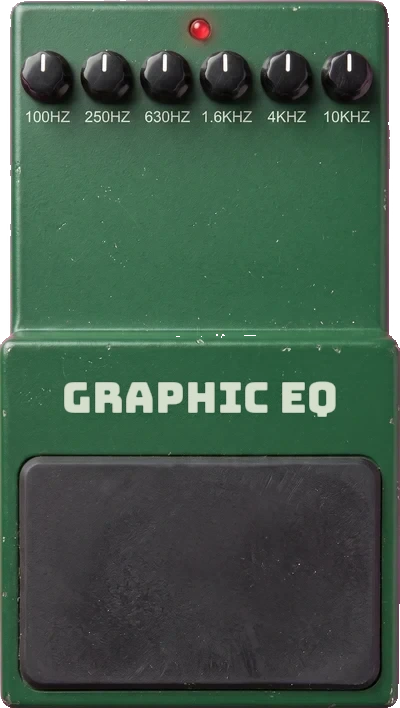
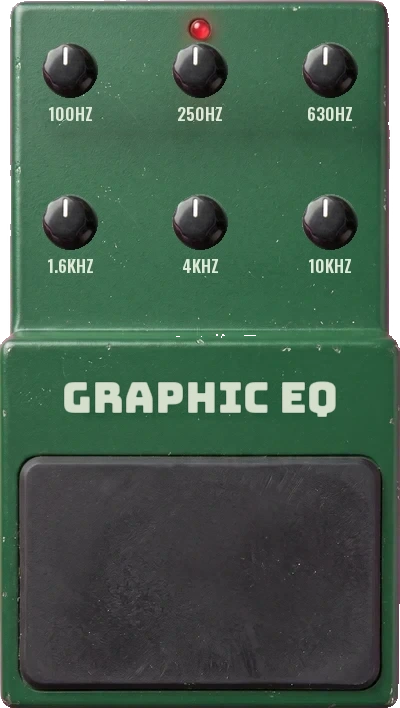
Spread EQ knobs into grids; keep sliders clear of value readouts on all pedals
Sliders are floored at value top + 24px (value height + thumb radius), ?/x plates nudged below slider rows where they collided, Wah labels stacked, Phaser title/LED lowered.

Claude-Session: https://claude.ai/code/session_01CWvZQgQQYmGZwEkUDMEGhG

diff --git a/style.css b/style.css
@@ -1617,10 +1617,19 @@ input[type="range"]:focus-visible { outline: 2px solid var(--brass); outline-off
   box-shadow: inset 0 1px 2px rgba(0, 0, 0, 0.7);
 }
 
+/* ?/x buttons nudged below the slider row (sliders keep clear of their values) */
+.photo-skin[data-pedal-type="cs3"] .stompbox-plate { top: calc(var(--plate-y) + 23px); }
+.photo-skin[data-pedal-type="sd1"] .stompbox-plate { top: calc(var(--plate-y) + 5px); }
+.photo-skin[data-pedal-type="bd2"] .stompbox-plate { top: calc(var(--plate-y) + 8px); }
+.photo-skin[data-pedal-type="chorus"] .stompbox-plate { top: calc(var(--plate-y) + 12px); }
+.photo-skin[data-pedal-type="ce2"] .stompbox-plate { top: calc(var(--plate-y) + 14px); }
+.photo-skin[data-pedal-type="tr2"] .stompbox-plate { top: calc(var(--plate-y) + 19px); }
+.photo-skin[data-pedal-type="delay"] .stompbox-plate { top: calc(var(--plate-y) + 15px); }
+
 /* Generic placement from per-pedal vars (blocks generated by the photo-skin pipeline):
    --col = knob column, --vy = value row, --sy = slider row, --sw = slider width. */
 .photo-skin .knob-row > label { left: var(--col); top: var(--vy); }
-.photo-skin .knob-row > input[type="range"] { left: calc(var(--col) - var(--sw) / 2); top: var(--sy); width: var(--sw); }
+.photo-skin .knob-row > input[type="range"] { left: calc(var(--col) - var(--sw) / 2); top: max(var(--sy), calc(var(--vy) + 24px)); /* keep thumb clear of its value readout */ width: var(--sw); }
 .photo-skin .knob-row .knob-value { background: rgba(0, 0, 0, 0.55); border-radius: 3px; padding: 0 4px; border-bottom: 0; }
 .photo-skin:has(.knob-row:nth-child(4)) .knob-row .knob-value { font-size: 9px; padding: 0 2px; }
 
@@ -1636,7 +1645,7 @@ input[type="range"]:focus-visible { outline: 2px solid var(--brass); outline-off
 }
 .photo-skin[data-pedal-type="reverb"] .knob-row { --kx: 149.3px; --ky: 84.7px; --kd: 60px; }
 .photo-skin[data-pedal-type="reverb"] .knob-row > label { left: 74.6%; top: 44.5%; }
-.photo-skin[data-pedal-type="reverb"] input[type="range"] { left: 56%; top: 50.5%; width: 34%; }
+.photo-skin[data-pedal-type="reverb"] input[type="range"] { left: 56%; top: calc(44.5% + 24px); width: 34%; }
 
 /* DS-1 (img/ds1.webp, 400x935): params are Dist, Tone, Level (rows 1-3). Values and sliders
    in the blank band under the knob labels. Bypass is the whole rubber treadle, as on the
@@ -1650,7 +1659,7 @@ input[type="range"]:focus-visible { outline: 2px solid var(--brass); outline-off
 .photo-skin[data-pedal-type="ds1"] .knob-row:nth-child(2) { --kx: 50px; --ky: 39px; --kd: 54px; --col: 24%; }
 .photo-skin[data-pedal-type="ds1"] .knob-row:nth-child(3) { --kx: 100px; --ky: 84px; --kd: 41px; --col: 50%; }
 .photo-skin[data-pedal-type="ds1"] .knob-row > label { left: var(--col); top: 30.5%; }
-.photo-skin[data-pedal-type="ds1"] .knob-row > input[type="range"] { left: calc(var(--col) - 10%); top: 35.5%; width: 20%; }
+.photo-skin[data-pedal-type="ds1"] .knob-row > input[type="range"] { left: calc(var(--col) - 10%); top: calc(30.5% + 24px); width: 20%; }
 .photo-skin[data-pedal-type="ds1"] .knob-row .knob-value { color: oklch(15% 0.02 50); border-bottom-color: oklch(15% 0.02 50 / 0.5); }
 
 /* GENERATED SKINS */
@@ -1779,17 +1788,17 @@ input[type="range"]:focus-visible { outline: 2px solid var(--brass); outline-off
 
 /* wah: generated by pipe.py (img/wah.webp, 400x1082) */
 .photo-skin[data-pedal-type="wah"] { --fs-x: 5.0%; --fs-y: 1.5%; --fs-w: 90.0%; --fs-h: 62.0%; --fs-r: 6px; --led-x: 80.0%; --led-y: 71.6%; --led-d: 14px; }
-.photo-skin[data-pedal-type="wah"] .knob-row:nth-child(1) { --col: 21.3%; --vy: 81.0%; --sy: 89.0%; --sw: 18.0%; }
+.photo-skin[data-pedal-type="wah"] .knob-row:nth-child(1) { --col: 21.3%; --vy: 78.5%; --sy: 90.0%; --sw: 18.0%; }
 .photo-skin[data-pedal-type="wah"] .knob-row:nth-child(1) > .knob-dial-wrap { display: none; }
-.photo-skin[data-pedal-type="wah"] .knob-row:nth-child(1) > label { font-size: 10px; color: #fff; text-shadow: 0 1px 2px #000; }
-.photo-skin[data-pedal-type="wah"] .knob-row:nth-child(2) { --col: 50.0%; --vy: 81.0%; --sy: 89.0%; --sw: 18.0%; }
+.photo-skin[data-pedal-type="wah"] .knob-row:nth-child(1) > label { display: flex; flex-direction: column; align-items: center; gap: 2px; font-size: 10px; color: #fff; text-shadow: 0 1px 2px #000; }
+.photo-skin[data-pedal-type="wah"] .knob-row:nth-child(2) { --col: 50.0%; --vy: 78.5%; --sy: 90.0%; --sw: 18.0%; }
 .photo-skin[data-pedal-type="wah"] .knob-row:nth-child(2) > .knob-dial-wrap { display: none; }
-.photo-skin[data-pedal-type="wah"] .knob-row:nth-child(2) > label { font-size: 10px; color: #fff; text-shadow: 0 1px 2px #000; }
-.photo-skin[data-pedal-type="wah"] .knob-row:nth-child(3) { --col: 78.7%; --vy: 81.0%; --sy: 89.0%; --sw: 18.0%; }
+.photo-skin[data-pedal-type="wah"] .knob-row:nth-child(2) > label { display: flex; flex-direction: column; align-items: center; gap: 2px; font-size: 10px; color: #fff; text-shadow: 0 1px 2px #000; }
+.photo-skin[data-pedal-type="wah"] .knob-row:nth-child(3) { --col: 78.7%; --vy: 78.5%; --sy: 90.0%; --sw: 18.0%; }
 .photo-skin[data-pedal-type="wah"] .knob-row:nth-child(3) > .knob-dial-wrap { display: none; }
-.photo-skin[data-pedal-type="wah"] .knob-row:nth-child(3) > label { font-size: 10px; color: #fff; text-shadow: 0 1px 2px #000; }
+.photo-skin[data-pedal-type="wah"] .knob-row:nth-child(3) > label { display: flex; flex-direction: column; align-items: center; gap: 2px; font-size: 10px; color: #fff; text-shadow: 0 1px 2px #000; }
 /* phaser: generated by pipe.py (img/phaser.webp, 400x738) */
-.photo-skin[data-pedal-type="phaser"] { --fs-x: calc(50.0% - 26px); --fs-y: calc(88.0% - 26px); --fs-w: 52px; --fs-h: 52px; --led-x: 78.8%; --led-y: 73.8%; --led-d: 14px; }
+.photo-skin[data-pedal-type="phaser"] { --fs-x: calc(50.0% - 26px); --fs-y: calc(88.0% - 26px); --fs-w: 52px; --fs-h: 52px; --led-x: 82.0%; --led-y: 79.5%; --led-d: 14px; }
 .photo-skin[data-pedal-type="phaser"] .knob-row:nth-child(1) { --kx: 53px; --ky: 55px; --kd: 54px; --col: 26.5%; --vy: 28.2%; --sy: 31.6%; --sw: 32%; }
 .photo-skin[data-pedal-type="phaser"] .knob-row:nth-child(2) { --kx: 147px; --ky: 55px; --kd: 54px; --col: 73.5%; --vy: 28.2%; --sy: 31.6%; --sw: 32%; }
 .photo-skin[data-pedal-type="phaser"] .knob-row:nth-child(3) { --kx: 53px; --ky: 150px; --kd: 54px; --col: 26.5%; --vy: 56.0%; --sy: 59.6%; --sw: 32%; }
@@ -1807,21 +1816,21 @@ input[type="range"]:focus-visible { outline: 2px solid var(--brass); outline-off
 .photo-skin[data-pedal-type="octaver"] .knob-row:nth-child(2) { --kx: 147.5px; --ky: 57.5px; --kd: 52px; --col: 73.8%; --vy: 40.0%; --sy: 44.5%; --sw: 34%; }
 /* ge7: generated by pipe.py (img/ge7.webp, 400x775) */
 .photo-skin[data-pedal-type="ge7"] { --fs-x: 5.0%; --fs-y: 66.0%; --fs-w: 90.0%; --fs-h: 31.0%; --fs-r: 6px; --led-x: 50.0%; --led-y: 4.3%; --led-d: 14px; --grip-y: 47.7%; --plate-y: 47.7%; }
-.photo-skin[data-pedal-type="ge7"] .knob-row:nth-child(1) { --kx: 26.3px; --ky: 36.2px; --kd: 23px; --col: 13.1%; --vy: 18.5%; --sy: 21.8%; --sw: 10.1%; }
-.photo-skin[data-pedal-type="ge7"] .knob-row:nth-child(2) { --kx: 50.9px; --ky: 36.2px; --kd: 23px; --col: 25.4%; --vy: 18.5%; --sy: 21.8%; --sw: 10.1%; }
-.photo-skin[data-pedal-type="ge7"] .knob-row:nth-child(3) { --kx: 75.4px; --ky: 36.2px; --kd: 23px; --col: 37.7%; --vy: 18.5%; --sy: 21.8%; --sw: 10.1%; }
-.photo-skin[data-pedal-type="ge7"] .knob-row:nth-child(4) { --kx: 100.0px; --ky: 36.2px; --kd: 23px; --col: 50.0%; --vy: 18.5%; --sy: 21.8%; --sw: 10.1%; }
-.photo-skin[data-pedal-type="ge7"] .knob-row:nth-child(5) { --kx: 124.6px; --ky: 36.2px; --kd: 23px; --col: 62.3%; --vy: 18.5%; --sy: 21.8%; --sw: 10.1%; }
-.photo-skin[data-pedal-type="ge7"] .knob-row:nth-child(6) { --kx: 149.1px; --ky: 36.2px; --kd: 23px; --col: 74.6%; --vy: 18.5%; --sy: 21.8%; --sw: 10.1%; }
-.photo-skin[data-pedal-type="ge7"] .knob-row:nth-child(7) { --kx: 173.7px; --ky: 36.2px; --kd: 23px; --col: 86.9%; --vy: 18.5%; --sy: 21.8%; --sw: 10.1%; }
+.photo-skin[data-pedal-type="ge7"] .knob-row:nth-child(1) { --kx: 31.0px; --ky: 42.0px; --kd: 25.0px; --col: 15.5%; --vy: 17.2%; --sy: 23.4%; --sw: 20%; }
+.photo-skin[data-pedal-type="ge7"] .knob-row:nth-child(2) { --kx: 77.0px; --ky: 42.0px; --kd: 25.0px; --col: 38.5%; --vy: 17.2%; --sy: 23.4%; --sw: 20%; }
+.photo-skin[data-pedal-type="ge7"] .knob-row:nth-child(3) { --kx: 123.0px; --ky: 42.0px; --kd: 25.0px; --col: 61.5%; --vy: 17.2%; --sy: 23.4%; --sw: 20%; }
+.photo-skin[data-pedal-type="ge7"] .knob-row:nth-child(4) { --kx: 169.0px; --ky: 42.0px; --kd: 25.0px; --col: 84.5%; --vy: 17.2%; --sy: 23.4%; --sw: 20%; }
+.photo-skin[data-pedal-type="ge7"] .knob-row:nth-child(5) { --kx: 54.0px; --ky: 118.0px; --kd: 25.0px; --col: 27.0%; --vy: 36.8%; --sy: 43.0%; --sw: 20%; }
+.photo-skin[data-pedal-type="ge7"] .knob-row:nth-child(6) { --kx: 100.0px; --ky: 118.0px; --kd: 25.0px; --col: 50.0%; --vy: 36.8%; --sy: 43.0%; --sw: 20%; }
+.photo-skin[data-pedal-type="ge7"] .knob-row:nth-child(7) { --kx: 146.0px; --ky: 118.0px; --kd: 25.0px; --col: 73.0%; --vy: 36.8%; --sy: 43.0%; --sw: 20%; }
 /* graphiceq: generated by pipe.py (img/graphiceq.webp, 400x710) */
 .photo-skin[data-pedal-type="graphiceq"] { --fs-x: 5.0%; --fs-y: 64.5%; --fs-w: 90.0%; --fs-h: 32.5%; --fs-r: 6px; --led-x: 50.0%; --led-y: 4.2%; --led-d: 14px; }
-.photo-skin[data-pedal-type="graphiceq"] .knob-row:nth-child(1) { --kx: 23.5px; --ky: 38px; --kd: 25px; --col: 11.8%; --vy: 20.5%; --sy: 24.5%; --sw: 13%; }
-.photo-skin[data-pedal-type="graphiceq"] .knob-row:nth-child(2) { --kx: 53.5px; --ky: 38px; --kd: 25px; --col: 26.8%; --vy: 20.5%; --sy: 24.5%; --sw: 13%; }
-.photo-skin[data-pedal-type="graphiceq"] .knob-row:nth-child(3) { --kx: 82.5px; --ky: 38px; --kd: 25px; --col: 41.2%; --vy: 20.5%; --sy: 24.5%; --sw: 13%; }
-.photo-skin[data-pedal-type="graphiceq"] .knob-row:nth-child(4) { --kx: 113.0px; --ky: 38px; --kd: 25px; --col: 56.5%; --vy: 20.5%; --sy: 24.5%; --sw: 13%; }
-.photo-skin[data-pedal-type="graphiceq"] .knob-row:nth-child(5) { --kx: 143.0px; --ky: 38px; --kd: 25px; --col: 71.5%; --vy: 20.5%; --sy: 24.5%; --sw: 13%; }
-.photo-skin[data-pedal-type="graphiceq"] .knob-row:nth-child(6) { --kx: 173.5px; --ky: 38px; --kd: 25px; --col: 86.8%; --vy: 20.5%; --sy: 24.5%; --sw: 13%; }
+.photo-skin[data-pedal-type="graphiceq"] .knob-row:nth-child(1) { --kx: 35.0px; --ky: 35.0px; --kd: 28.0px; --col: 17.5%; --vy: 17.2%; --sy: 24.0%; --sw: 24%; }
+.photo-skin[data-pedal-type="graphiceq"] .knob-row:nth-child(2) { --kx: 100.0px; --ky: 35.0px; --kd: 28.0px; --col: 50.0%; --vy: 17.2%; --sy: 24.0%; --sw: 24%; }
+.photo-skin[data-pedal-type="graphiceq"] .knob-row:nth-child(3) { --kx: 165.0px; --ky: 35.0px; --kd: 28.0px; --col: 82.5%; --vy: 17.2%; --sy: 24.0%; --sw: 24%; }
+.photo-skin[data-pedal-type="graphiceq"] .knob-row:nth-child(4) { --kx: 35.0px; --ky: 111.0px; --kd: 28.0px; --col: 17.5%; --vy: 38.7%; --sy: 45.5%; --sw: 24%; }
+.photo-skin[data-pedal-type="graphiceq"] .knob-row:nth-child(5) { --kx: 100.0px; --ky: 111.0px; --kd: 28.0px; --col: 50.0%; --vy: 38.7%; --sy: 45.5%; --sw: 24%; }
+.photo-skin[data-pedal-type="graphiceq"] .knob-row:nth-child(6) { --kx: 165.0px; --ky: 111.0px; --kd: 28.0px; --col: 82.5%; --vy: 38.7%; --sy: 45.5%; --sw: 24%; }
 
 /* pitchshift: generated by pipe.py (img/pitchshift.webp, 400x1008) */
 .photo-skin[data-pedal-type="pitchshift"] { --fs-x: 9.5%; --fs-y: 5.5%; --fs-w: 81.5%; --fs-h: 62.5%; --fs-r: 8px; --led-x: 83.8%; --led-y: 71.4%; --led-d: 14px; }

diff --git a/test-layout.html b/test-layout.html
@@ -15,9 +15,9 @@
     const w = frame.contentWindow;
     const ampId = location.search.includes('acoustic') ? 'acoustic' : 'clean';
     await w.eval(`(async () => {
-      const ui = await import('/js/ui.js?v=40');
-      const pr = await import('/js/pedal-registry.js?v=34');
-      const ar = await import('/js/amp-registry.js?v=38');
+      const ui = await import('/js/ui.js?v=61');
+      const pr = await import('/js/pedal-registry.js?v=55');
+      const ar = await import('/js/amp-registry.js?v=59');
       const mk = (id, getter, kind) => {
         const typeDef = getter(id);
         const params = {}; typeDef.params.forEach((p) => { params[p.key] = p.default; });

diff --git a/js/main.js b/js/main.js
@@ -1,5 +1,5 @@
-import { AudioEngine } from './audio-engine.js?v=66';
-import { renderChain, renderAmp, showAddMenu, showDemoMenu, showSavePresetPopover, showPresetMenu, showInfoPopover, drawScope, drawWaveform, drawStaticWave } from './ui.js?v=56';
+import { AudioEngine } from './audio-engine.js?v=71';
+import { renderChain, renderAmp, showAddMenu, showDemoMenu, showSavePresetPopover, showPresetMenu, showInfoPopover, drawScope, drawWaveform, drawStaticWave } from './ui.js?v=61';
 import { renderPreviewWaveform } from './wave-preview.js';
 import { DEMO_PRESETS } from './demo-presets.js?v=2';
 import { Tuner, GUITAR_STRINGS, centsFromTarget } from './tuner.js?v=3';

diff --git a/index.html b/index.html
@@ -4,7 +4,7 @@
 <meta charset="utf-8">
 <title>Guitar FX Pedalboard</title>
 <meta name="viewport" content="width=device-width, initial-scale=1">
-<link rel="stylesheet" href="style.css?v=72">
+<link rel="stylesheet" href="style.css?v=93">
 <script>
   (function () {
     var root = document.documentElement;
@@ -550,6 +550,6 @@
   </div>
 </template>
 
-<script type="module" src="js/main.js?v=76"></script>
+<script type="module" src="js/main.js?v=97"></script>
 </body>
 </html>

diff --git a/js/audio-engine.js b/js/audio-engine.js
@@ -1,5 +1,5 @@
-import { getPedalType } from './pedal-registry.js?v=50';
-import { getAmpType } from './amp-registry.js?v=54';
+import { getPedalType } from './pedal-registry.js?v=55';
+import { getAmpType } from './amp-registry.js?v=59';
 
 // Keep in sync with WORKLET_MODULES in wave-preview.js (same URLs, so both share one HTTP cache entry).
 const WORKLET_URLS = [

diff --git a/js/ui.js b/js/ui.js
@@ -1,5 +1,5 @@
-import { PEDAL_TYPES, CATEGORIES } from './pedal-registry.js?v=50';
-import { AMP_TYPES } from './amp-registry.js?v=54';
+import { PEDAL_TYPES, CATEGORIES } from './pedal-registry.js?v=55';
+import { AMP_TYPES } from './amp-registry.js?v=59';
 
 function stepFor(param) {
   if (param.step !== undefined) return param.step;

diff --git a/js/amp-registry.js b/js/amp-registry.js
@@ -1,5 +1,5 @@
 import { generateCabIR, generateAcousticBodyIR } from './ir-synth.js?v=4';
-import { driveCurve } from './pedal-registry.js?v=50';
+import { driveCurve } from './pedal-registry.js?v=55';
 
 function makeBand(ctx, band) {
   const f = ctx.createBiquadFilter();
